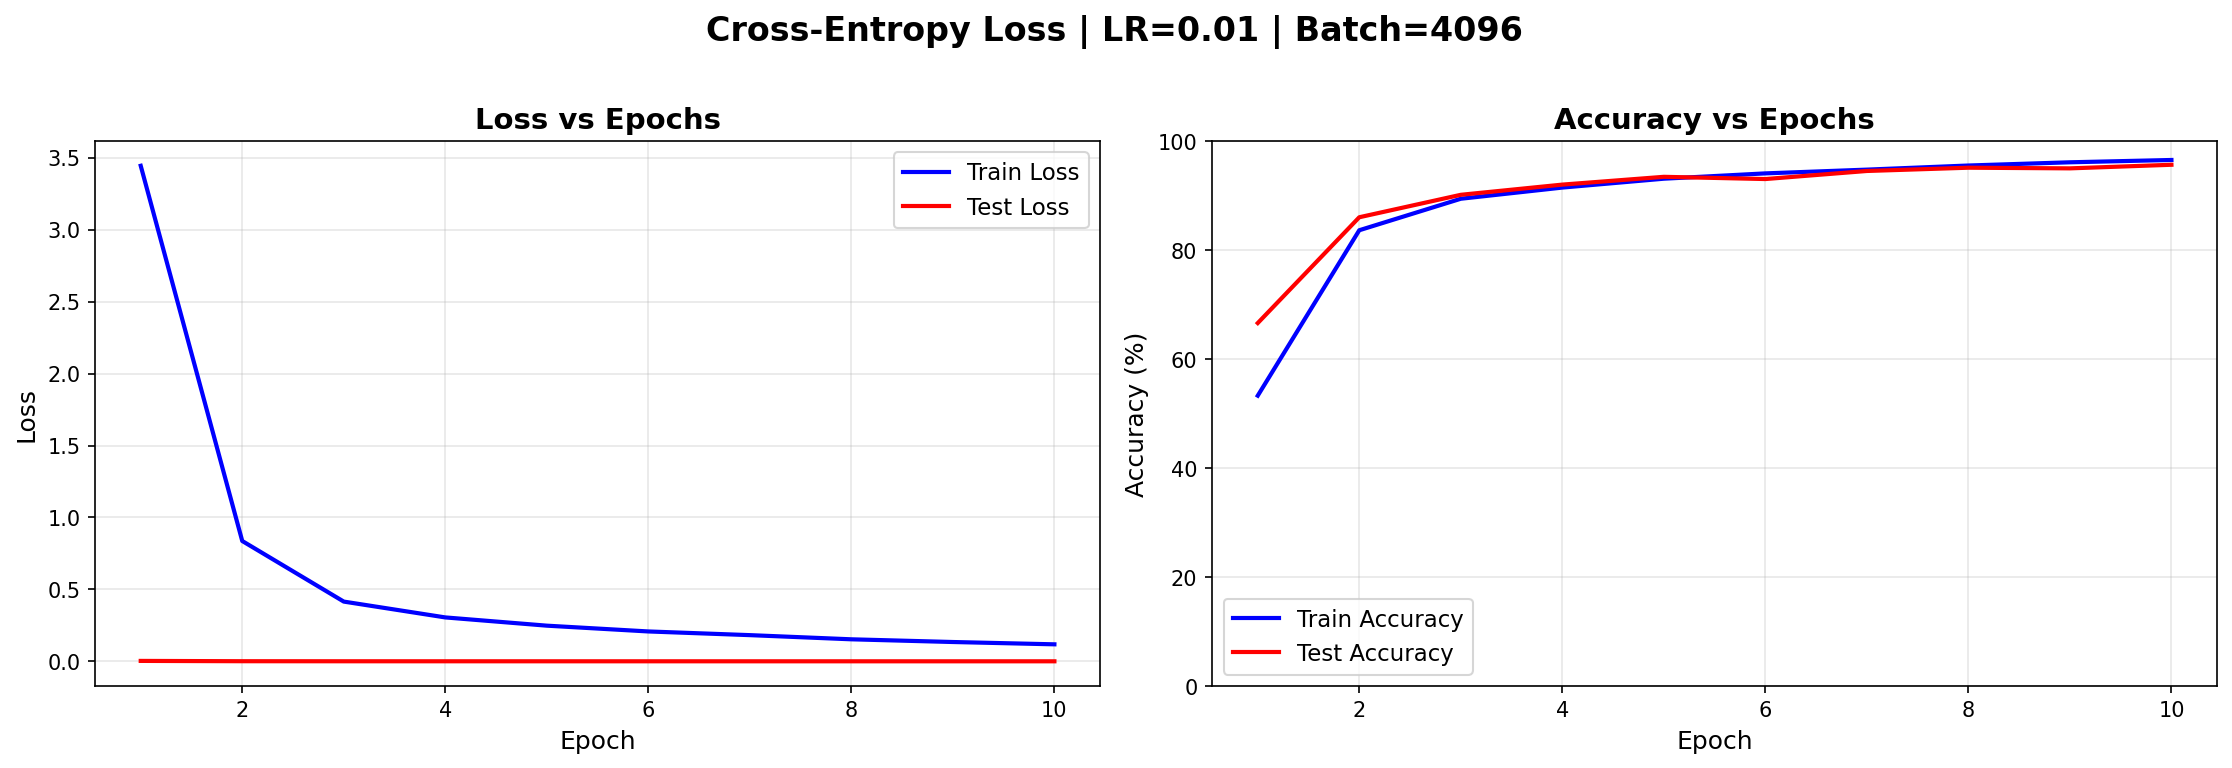
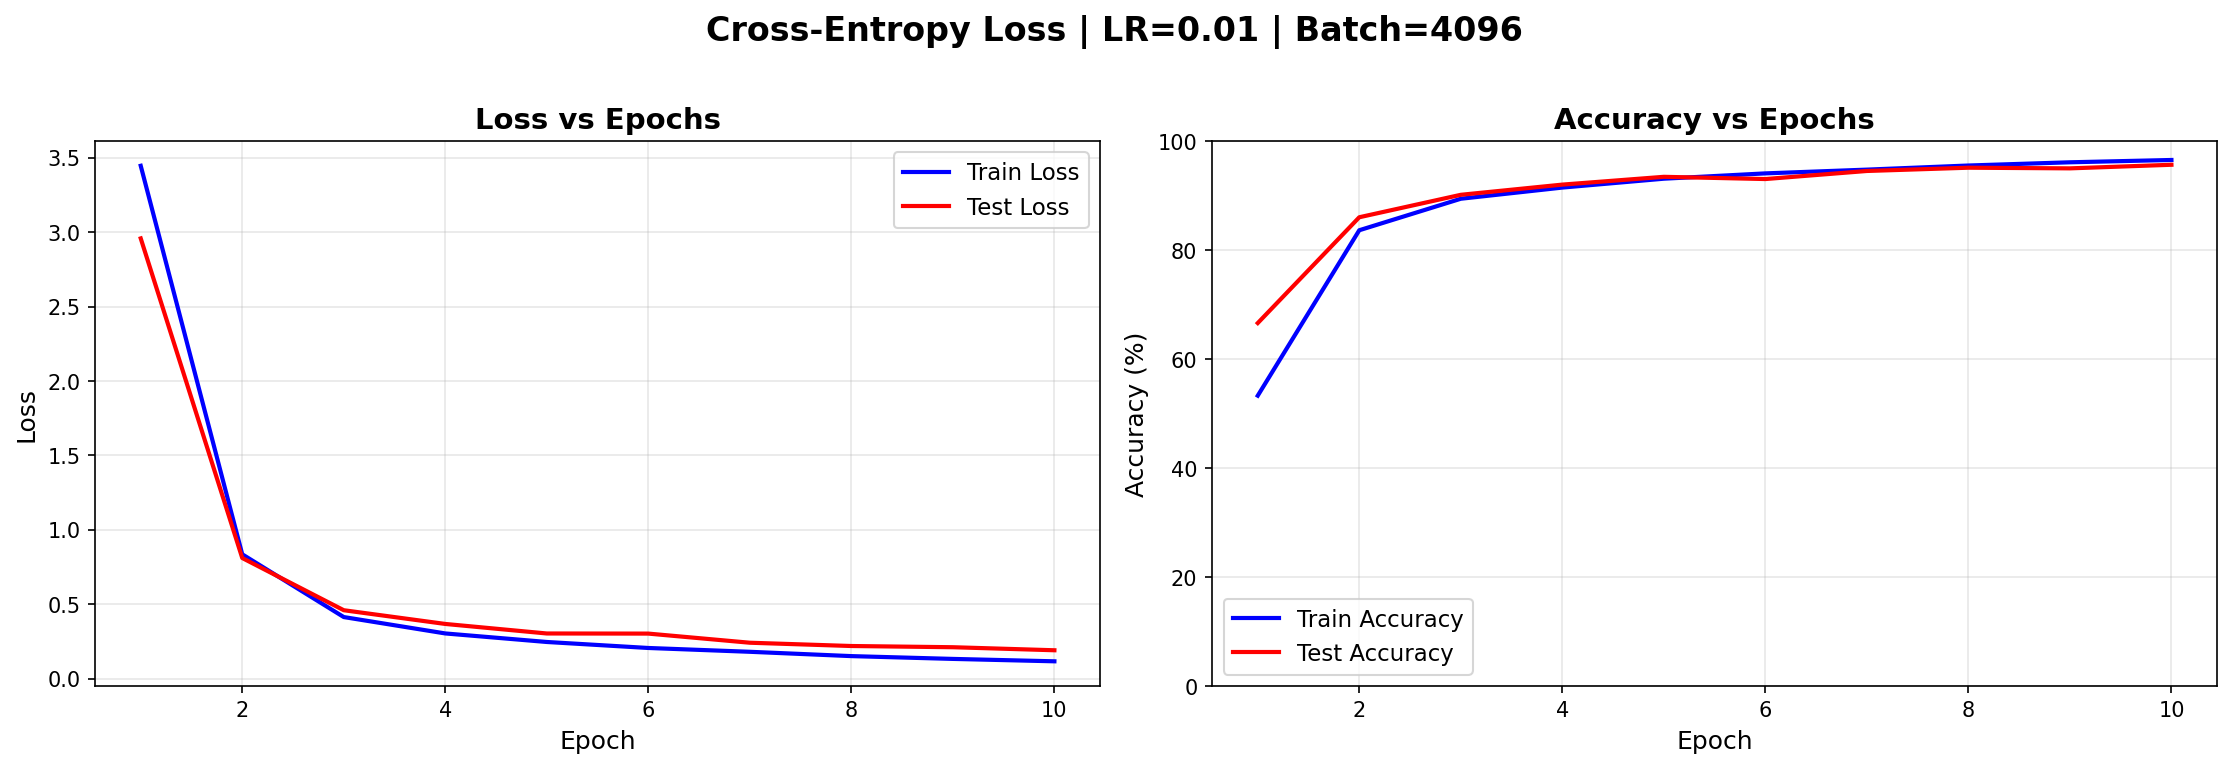
enable beta annealing

Changed region(s): [[0.0618, 0.75, 0.4946, 0.875], [0.0618, 0.3125, 0.0927, 0.5625], [0.0927, 0.5625, 0.1237, 0.75]]

diff --git a/experiments/mnist_mcmc_experiment.py b/experiments/mnist_mcmc_experiment.py
@@ -101,8 +101,7 @@ class VlogLoss(nn.Module):
         """
         stabilities = self.compute_stabilities(output, target)
         potentials = self.vlog_potential(stabilities)
-        #loss = self.beta * potentials.mean()
-        loss = potentials.mean()
+        loss = self.beta * potentials.mean()  # β-annealing enabled!
 
         return loss
     
@@ -367,10 +366,10 @@ def main():
     # Vlog hyperparameters
     parser.add_argument('--b-value', type=float, default=10.0,
                         help='b (tau) parameter for Vlog potential (default: 10.0)')
-    parser.add_argument('--beta-start', type=float, default=0.1,
-                        help='Starting beta for annealing (default: 0.1)')
-    parser.add_argument('--beta-end', type=float, default=100.0,
-                        help='Ending beta for annealing (default: 100.0)')
+    parser.add_argument('--beta-start', type=float, default=0.5,
+                        help='Starting beta for annealing (default: 0.5)')
+    parser.add_argument('--beta-end', type=float, default=5.0,
+                        help='Ending beta for annealing (default: 5.0)')
     parser.add_argument('--beta-fixed', type=float, default=1.0,
                         help='Fixed beta value when not annealing (default: 1.0)')
     parser.add_argument('--normalization-dim', type=int, default=10,
